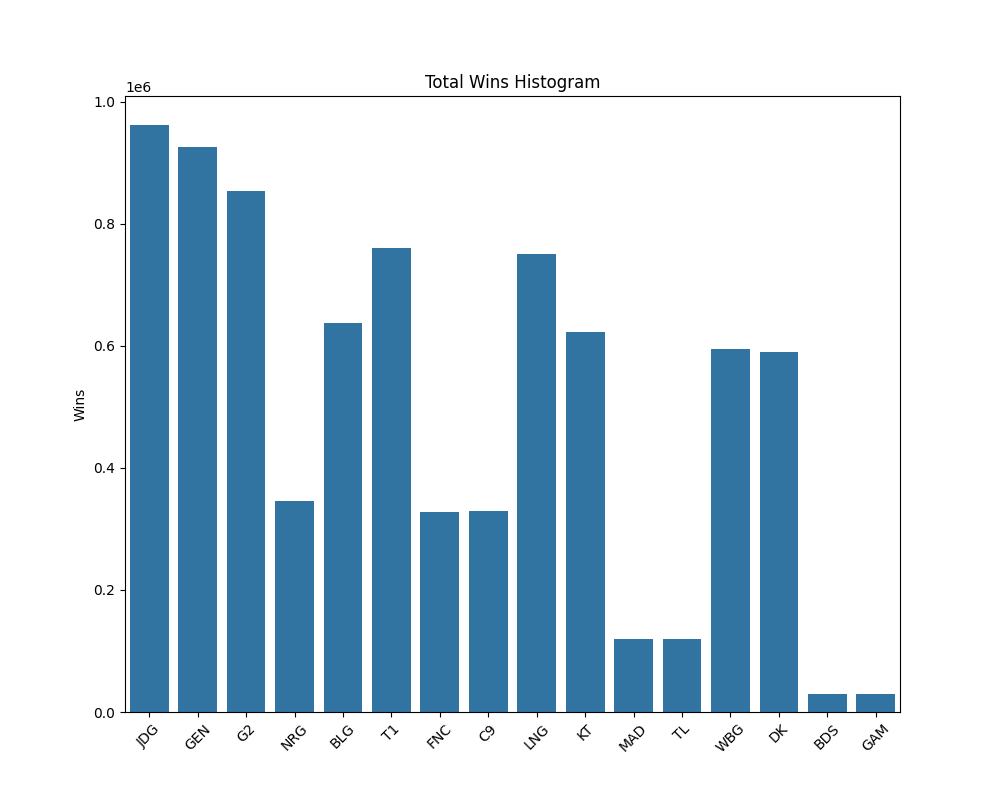
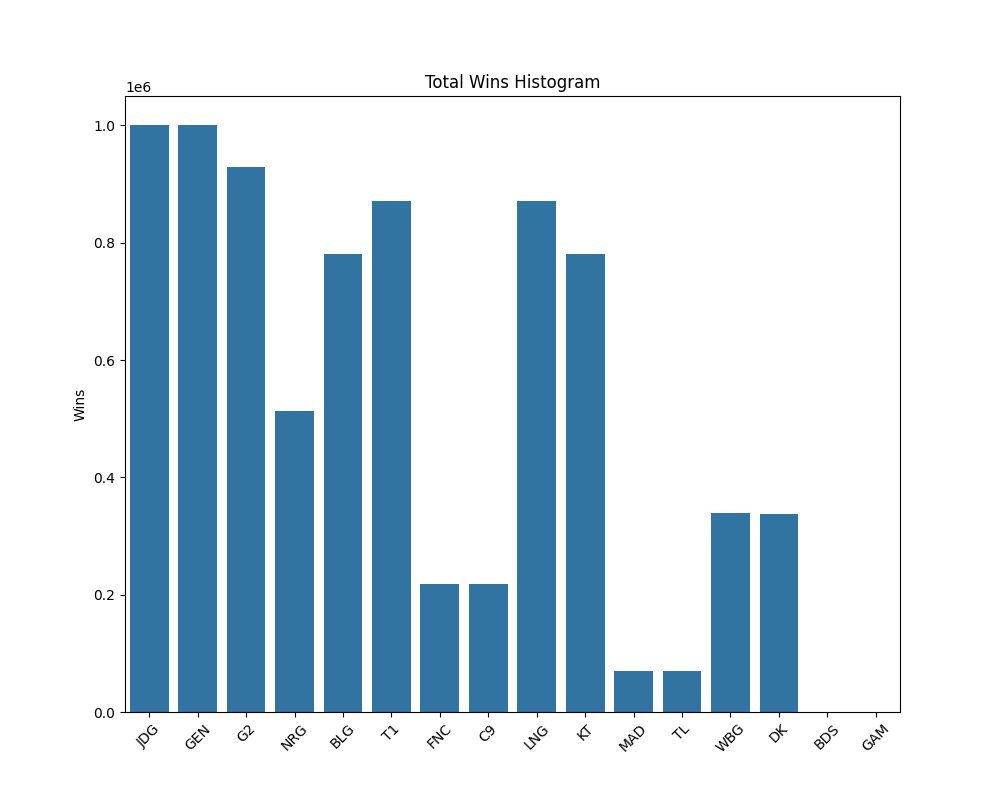
simulation from a certain distribution is avaliable

diff --git a/swiss.py b/swiss.py
@@ -1,5 +1,6 @@
 import random
 import math
+import copy
 import matplotlib.pyplot as plt
 import seaborn as sns
 import numpy as np
@@ -7,15 +8,15 @@ import argparse
 
 
 class Team:
-    def __init__(self, name, index, group, area, elo):
+    def __init__(self, name, index, group, area, elo, wins=0, losses=0):
         self.name = name
         self.id = index
         self.group = group
         self.area = area
         self.elo = elo
         self.initial_elo = elo 
-        self.wins = 0
-        self.losses = 0
+        self.wins = wins
+        self.losses = losses
         self.opponents = []
 
     def win_game(self):
@@ -148,40 +149,41 @@ def generate_matchups(teams):
     
     return matchups
 
-def simulate_swiss_round(teams, win_matrix):
-    # First round special draw
-    first_round_teams = teams.copy()
-    
-    # Sort teams by their group attribute
-    first_round_teams.sort(key=lambda x: x.group)
+def simulate_swiss_round(teams, win_matrix, starting_round=1):
+    if starting_round <= 1:
+        # First round special draw
+        first_round_teams = teams.copy()
+        
+        # Sort teams by their group attribute
+        first_round_teams.sort(key=lambda x: x.group)
 
-    # Divide teams into their respective groups
-    groups = [first_round_teams[i:i+4] for i in range(0, len(first_round_teams), 4)]
+        # Divide teams into their respective groups
+        groups = [first_round_teams[i:i+4] for i in range(0, len(first_round_teams), 4)]
 
-    # Pairing 1st group with 4th and 2nd group with 3rd
-    matchups = []
-    for i, j in [(0, 3), (1, 2)]:
-        while groups[i] and groups[j]:  # Ensure there are teams left to pair
-            team_from_group_i = random.choice(groups[i])
-            valid_opponents = [team for team in groups[j] if team.area != team_from_group_i.area]  # Filter out teams from the same area
-            # If there's no valid opponent, attempt to swap with the last matchup
-            if not valid_opponents and matchups:
-                last_matchup = matchups.pop()
-                valid_opponents = [last_matchup[1]] if last_matchup[1].area != last_matchup[0].area else []
-                if not valid_opponents:  # If still no valid opponent, raise an error
-                    raise ValueError("Couldn't resolve valid opponents after attempting to swap.")
-                groups[i].append(last_matchup[0])  # Add the swapped team back to its original group
-                groups[j].append(last_matchup[1])
-                # print(team_from_group_i.name, [x.name for x in valid_opponents])
-                # print([x.name for x in groups[i]], [x.name for x in groups[j]])
+        # Pairing 1st group with 4th and 2nd group with 3rd
+        matchups = []
+        for i, j in [(0, 3), (1, 2)]:
+            while groups[i] and groups[j]:  # Ensure there are teams left to pair
+                team_from_group_i = random.choice(groups[i])
+                valid_opponents = [team for team in groups[j] if team.area != team_from_group_i.area]  # Filter out teams from the same area
+                if not valid_opponents and matchups:
+                    last_matchup = matchups.pop()
+                    valid_opponents = [last_matchup[1]] if last_matchup[1].area != last_matchup[0].area else []
+                    if not valid_opponents:
+                        raise ValueError("Couldn't resolve valid opponents after attempting to swap.")
+                    groups[i].append(last_matchup[0])
+                    groups[j].append(last_matchup[1])
 
-            team_from_group_j = random.choice(valid_opponents)
-            groups[i].remove(team_from_group_i)
-            groups[j].remove(team_from_group_j)
+                team_from_group_j = random.choice(valid_opponents)
+                groups[i].remove(team_from_group_i)
+                groups[j].remove(team_from_group_j)
+                matchups.append((team_from_group_i, team_from_group_j))
+    else:
+        # If we are starting from a later round, just generate the matchups based on current standings
+        teams_in_play = [t for t in teams if not t.is_qualified() and not t.is_eliminated()]
+        matchups = generate_matchups(teams_in_play)
 
-            matchups.append((team_from_group_i, team_from_group_j))
-
-    round_num = 1
+    round_num = starting_round
     # Simulate the rounds
     while any(not t.is_qualified() and not t.is_eliminated() for t in teams):
         # print(f"Round {round_num} matchups:")
@@ -327,56 +329,58 @@ def save_win_loss_pie_charts(results_objects, teams, save_path='figs/win_loss_pi
     plt.close()
     
 
-def main(teams, num_simulations):
+def main(initial_teams, num_simulations, starting_round=1):    
     team_results = [Results() for _ in range(16)]
     win_matrix = [[0 for _ in range(16)] for _ in range(16)]
 
     for _ in range(num_simulations):
-        qualified_teams = simulate_swiss_round(teams, win_matrix)
+        teams = copy.deepcopy(initial_teams)
+        qualified_teams = simulate_swiss_round(teams, win_matrix, starting_round)
         for idx, team in enumerate(teams):
             team_results[idx].update(team)
         
-        for team in teams:
-            team.reset()
+        # for team in teams:
+        #     team.reset()
 
     rate_matrix = win_matrix_to_rate(win_matrix)
 
-    save_win_rate_heatmap(rate_matrix, teams, 'win_rate_heatmap.png')
-    save_elo_distribution(team_results, teams)
-    save_histogram(team_results, teams)
-    save_pie_chart(team_results, teams)
-    save_stacked_barplot(team_results, teams)
-    save_win_loss_heatmap(team_results, teams)
-    save_win_loss_pie_charts(team_results, teams)
+    save_win_rate_heatmap(rate_matrix, initial_teams)
+    save_elo_distribution(team_results, initial_teams)
+    save_histogram(team_results, initial_teams)
+    save_pie_chart(team_results, initial_teams)
+    save_stacked_barplot(team_results, initial_teams)
+    save_win_loss_heatmap(team_results, initial_teams)
+    save_win_loss_pie_charts(team_results, initial_teams)
 
 if __name__ == "__main__":
     parser = argparse.ArgumentParser(description="Swiss Round Simulation")
     # parser.add_argument("-k", "--K", type=int, default=32, help="K-factor for Elo calculations")
     parser.add_argument("-s", "--simulations", type=int, default=1000000, help="Number of simulations to run")
+    parser.add_argument("-r", "--starting_round", type=int, default=1, help="Starting round for the simulation")
     args = parser.parse_args()
     
     ## set teams
-    jdg = Team("JDG", 0, 1, 'lpl', 2000)
-    gen = Team("GEN", 1, 1, 'lck', 1950)
-    g2 = Team("G2", 2, 1, 'lec', 1900)
-    nrg = Team("NRG", 3, 1, 'lcs', 1700)
-    blg = Team("BLG", 4, 2, 'lpl', 1800)
-    t1 = Team("T1", 5, 2, 'lck', 1850)
-    fnc = Team("FNC", 6, 2, 'lec', 1700)
-    c9 = Team("C9", 7, 2, 'lcs', 1700)
-    lng = Team("LNG", 8, 3, 'lpl', 1850)
-    kt = Team("KT", 9, 3, 'lck', 1800)
-    mad = Team("MAD", 10, 3, 'lec', 1600)
-    tl = Team("TL", 11, 3, 'lcs', 1600)
-    wbg = Team("WBG", 12, 4, 'lpl', 1800)
-    dk = Team("DK", 13, 4, 'lck', 1800)
-    bds = Team("BDS", 14, 4, 'lec', 1500)
-    gam = Team("GAM", 15, 4, 'vcs', 1500)
+    jdg = Team("JDG", 0, 1, 'lpl', 2000, 3, 0)
+    gen = Team("GEN", 1, 1, 'lck', 1950, 3, 0)
+    g2 = Team("G2", 2, 1, 'lec', 1900, 2, 1)
+    nrg = Team("NRG", 3, 1, 'lcs', 1700, 2, 1)
+    blg = Team("BLG", 4, 2, 'lpl', 1800, 2, 1)
+    t1 = Team("T1", 5, 2, 'lck', 1850, 2, 1)
+    fnc = Team("FNC", 6, 2, 'lec', 1700, 1, 2)
+    c9 = Team("C9", 7, 2, 'lcs', 1700, 1, 2)
+    lng = Team("LNG", 8, 3, 'lpl', 1850, 2, 1)
+    kt = Team("KT", 9, 3, 'lck', 1800, 2, 1)
+    mad = Team("MAD", 10, 3, 'lec', 1600, 1, 2)
+    tl = Team("TL", 11, 3, 'lcs', 1600, 1, 2)
+    wbg = Team("WBG", 12, 4, 'lpl', 1750, 1, 2)
+    dk = Team("DK", 13, 4, 'lck', 1750, 1, 2)
+    bds = Team("BDS", 14, 4, 'lec', 1500, 0, 3)
+    gam = Team("GAM", 15, 4, 'vcs', 1500, 0 ,3)
     
     teams = [jdg, gen, g2, nrg,
              blg, t1, fnc, c9,
              lng, kt, mad, tl,
              wbg, dk, bds, gam]
     
-    main(teams, args.simulations)
+    main(teams, args.simulations, args.starting_round)
 
